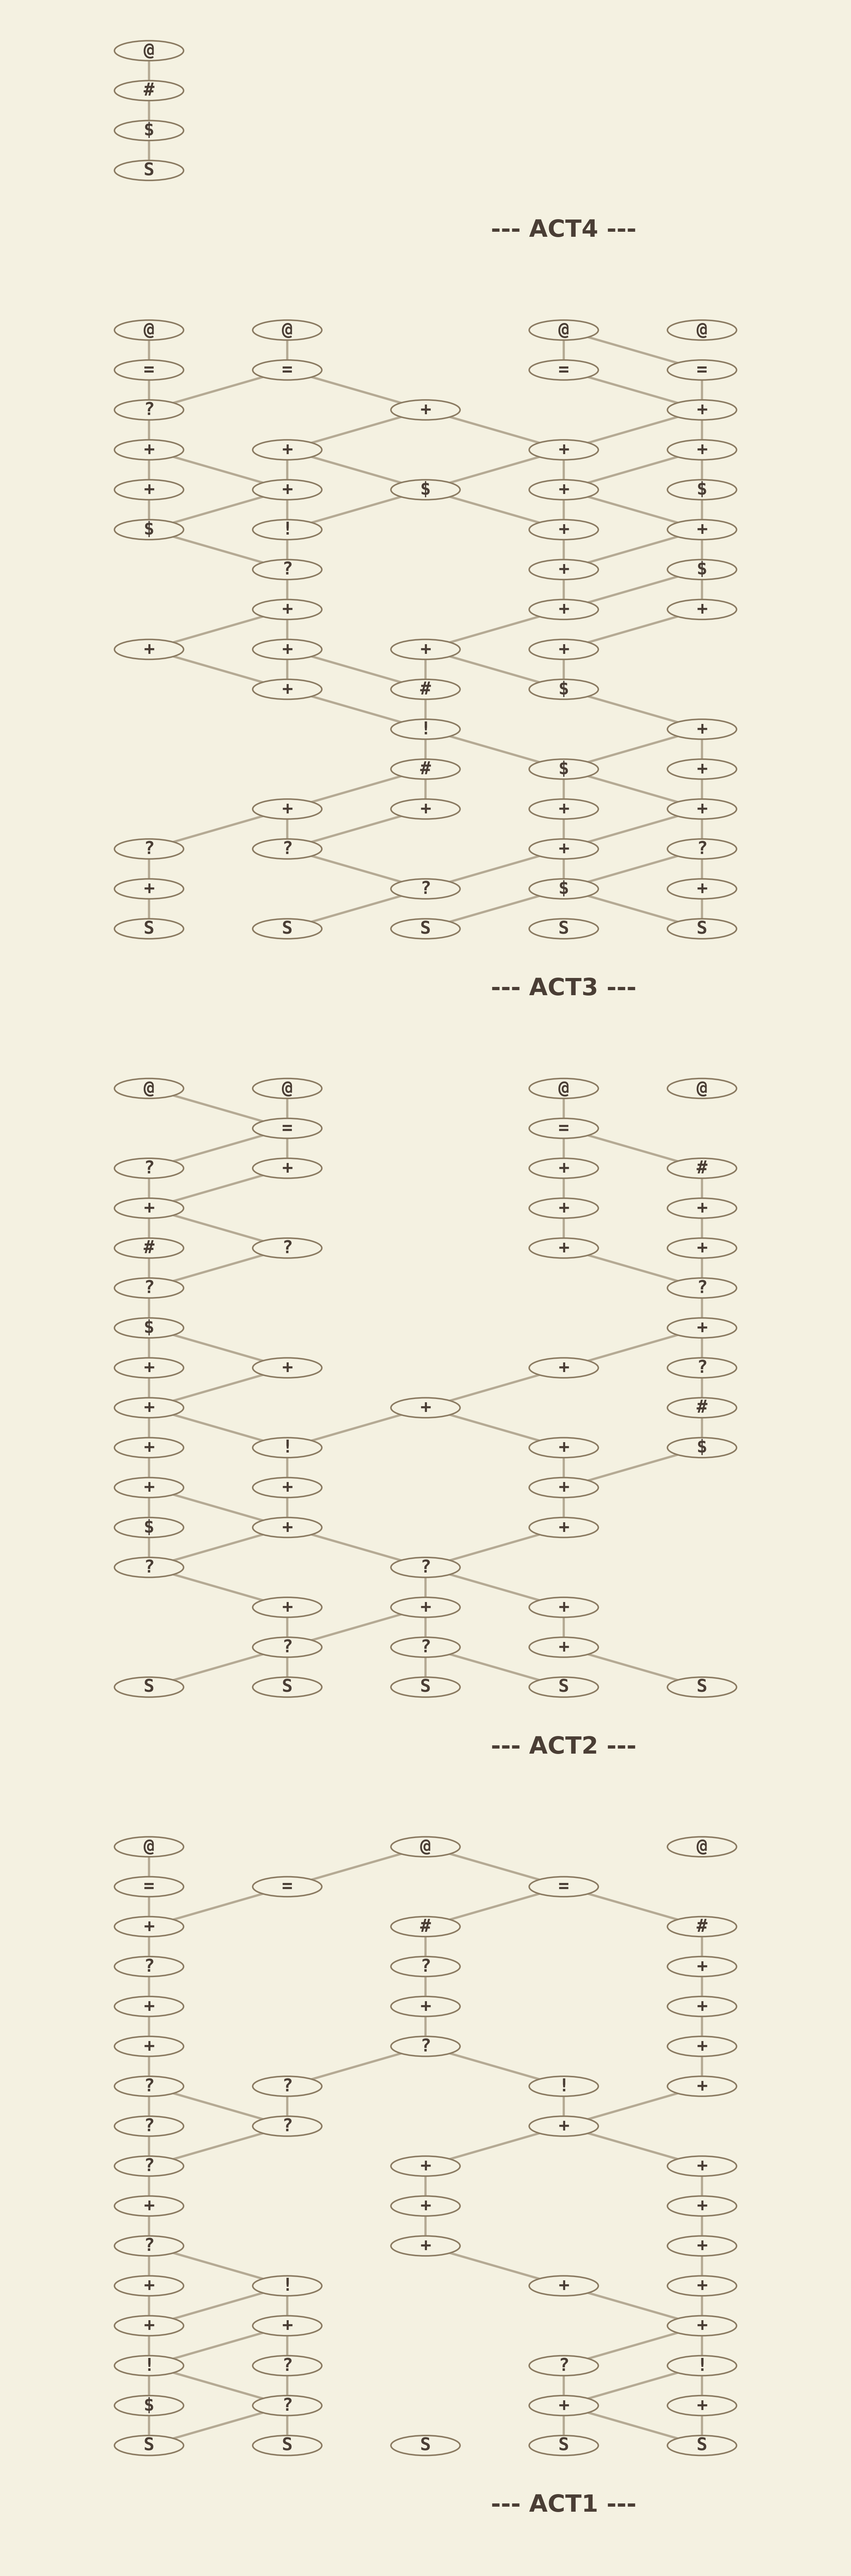
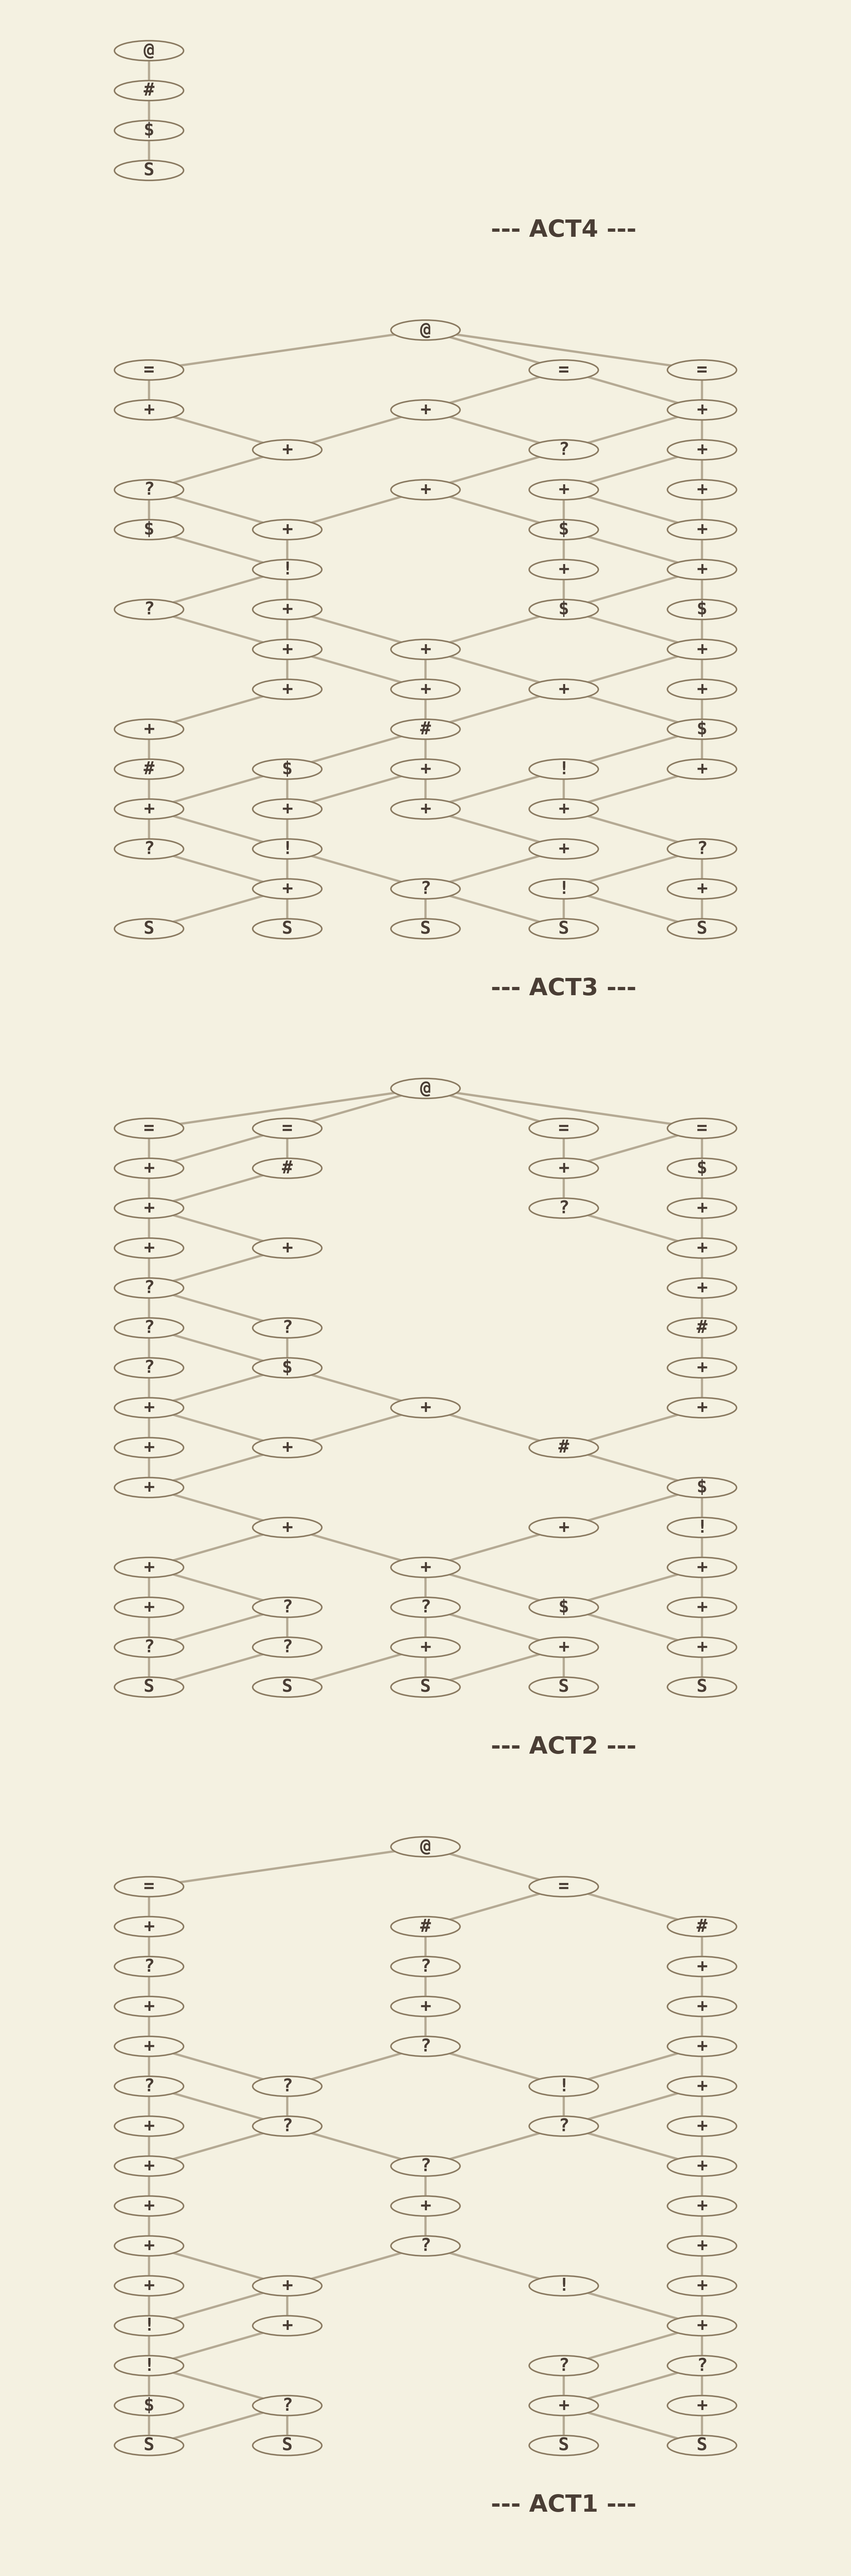
Refactor topology for single boss node and fix start node pruning

diff --git a/sts_map/generator/topology_builder.py b/sts_map/generator/topology_builder.py
@@ -14,7 +14,7 @@ class TopologyBuilder:
         rng = random.Random(ctx.rng_seed)
         nodes_by_floor: dict[int, list[RoomNode]] = {}
 
-        for floor in range(cfg.floor_count):
+        for floor in range(cfg.floor_count - 1):
             count = self.sample_floor_node_count(floor, cfg, rng)
             positions = self._compute_x_positions(count, cfg.max_nodes_per_floor)
             nodes_by_floor[floor] = [RoomNode(id=NodeId(floor=floor, x=x)) for x in positions]
@@ -24,6 +24,14 @@ class TopologyBuilder:
         self._saturate_connectivity(graph, rng)
         self._add_cross_connections(graph, rng)
         self.enforce_node_load_limits(graph)
+        
+        boss_floor = cfg.floor_count - 1
+        center_x = cfg.max_nodes_per_floor // 2
+        boss_node = RoomNode(id=NodeId(floor=boss_floor, x=center_x))
+        graph.nodes_by_floor[boss_floor] = [boss_node]
+        for node in graph.nodes_by_floor[boss_floor - 1]:
+            graph.edges.append(Edge(src=node.id, dst=boss_node.id))
+            
         self.prune_isolated_nodes(graph)
         return graph
 
@@ -154,12 +162,12 @@ class TopologyBuilder:
 
             removed_any = False
             for floor, nodes in graph.nodes_by_floor.items():
-                if floor == 0 or floor == max(graph.nodes_by_floor):
-                    continue
-                valid_nodes = [
-                    node for node in nodes 
-                    if node.id in has_in and node.id in has_out
-                ]
+                if floor == 0:
+                    valid_nodes = [node for node in nodes if node.id in has_out]
+                elif floor == max(graph.nodes_by_floor.keys()):
+                    valid_nodes = [node for node in nodes if node.id in has_in]
+                else:
+                    valid_nodes = [node for node in nodes if node.id in has_in and node.id in has_out]
                 if len(valid_nodes) < len(nodes):
                     graph.nodes_by_floor[floor] = valid_nodes
                     removed_any = True

diff --git a/sts_map/validators/map_validator.py b/sts_map/validators/map_validator.py
@@ -41,7 +41,7 @@ class MapValidator:
                 )
 
         for edge in graph.edges:
-            if not self._can_connect(edge.src, edge.dst):
+            if not self._can_connect(edge.src, edge.dst, max_floor):
                 issues.append(
                     ValidationIssue(
                         code="STRUCT_ILLEGAL_EDGE",
@@ -271,7 +271,9 @@ class MapValidator:
 
         return issues
 
-    def _can_connect(self, src: NodeId, dst: NodeId) -> bool:
+    def _can_connect(self, src: NodeId, dst: NodeId, max_floor: int) -> bool:
+        if dst.floor == max_floor:
+            return dst.floor == src.floor + 1
         return dst.floor == src.floor + 1 and abs(dst.x - src.x) <= 1
 
     def _intersects(self, a: Edge, b: Edge) -> bool:
